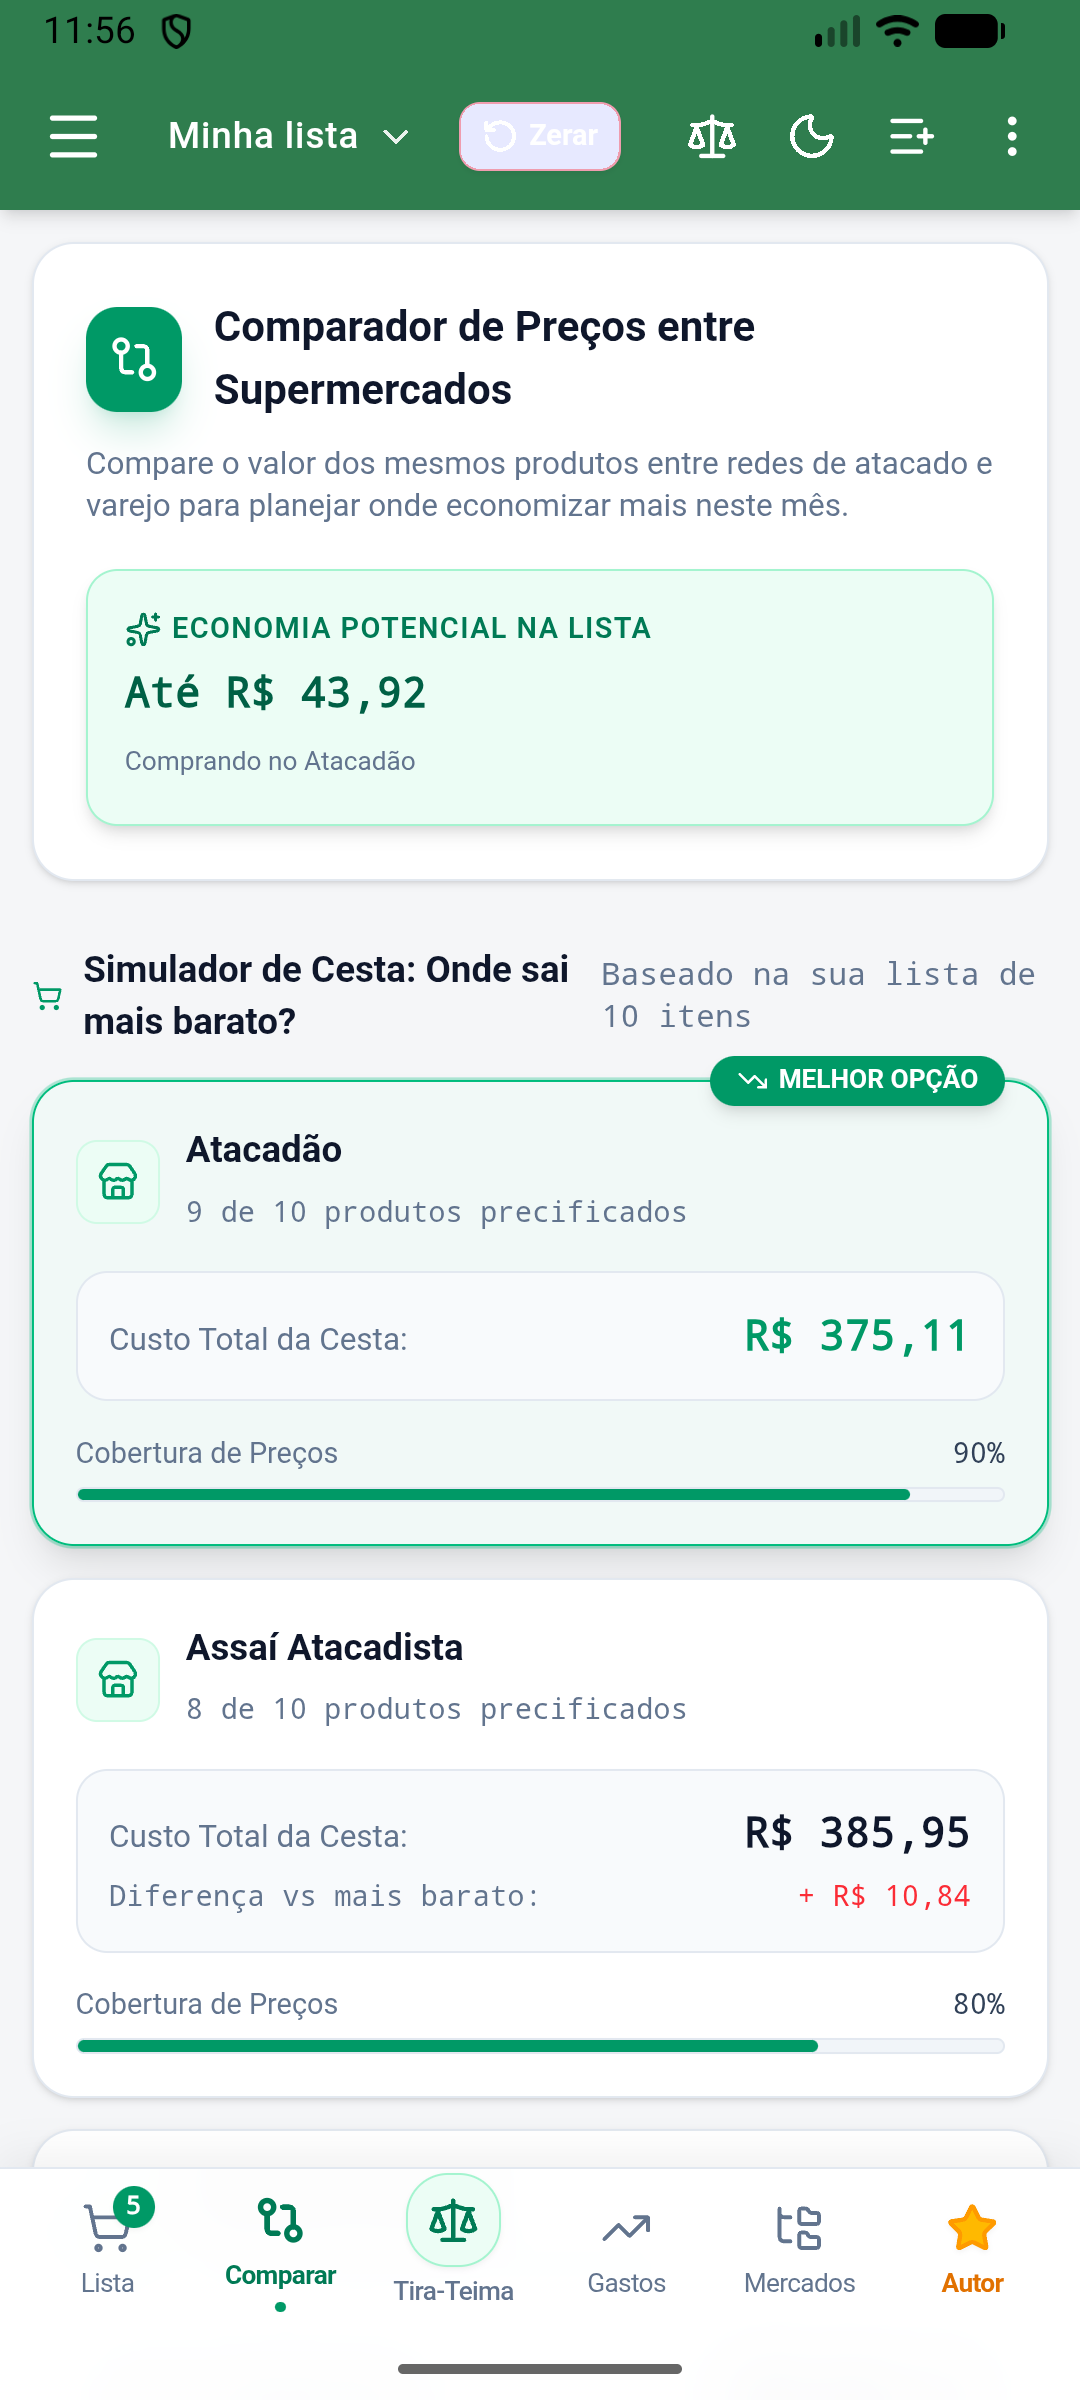
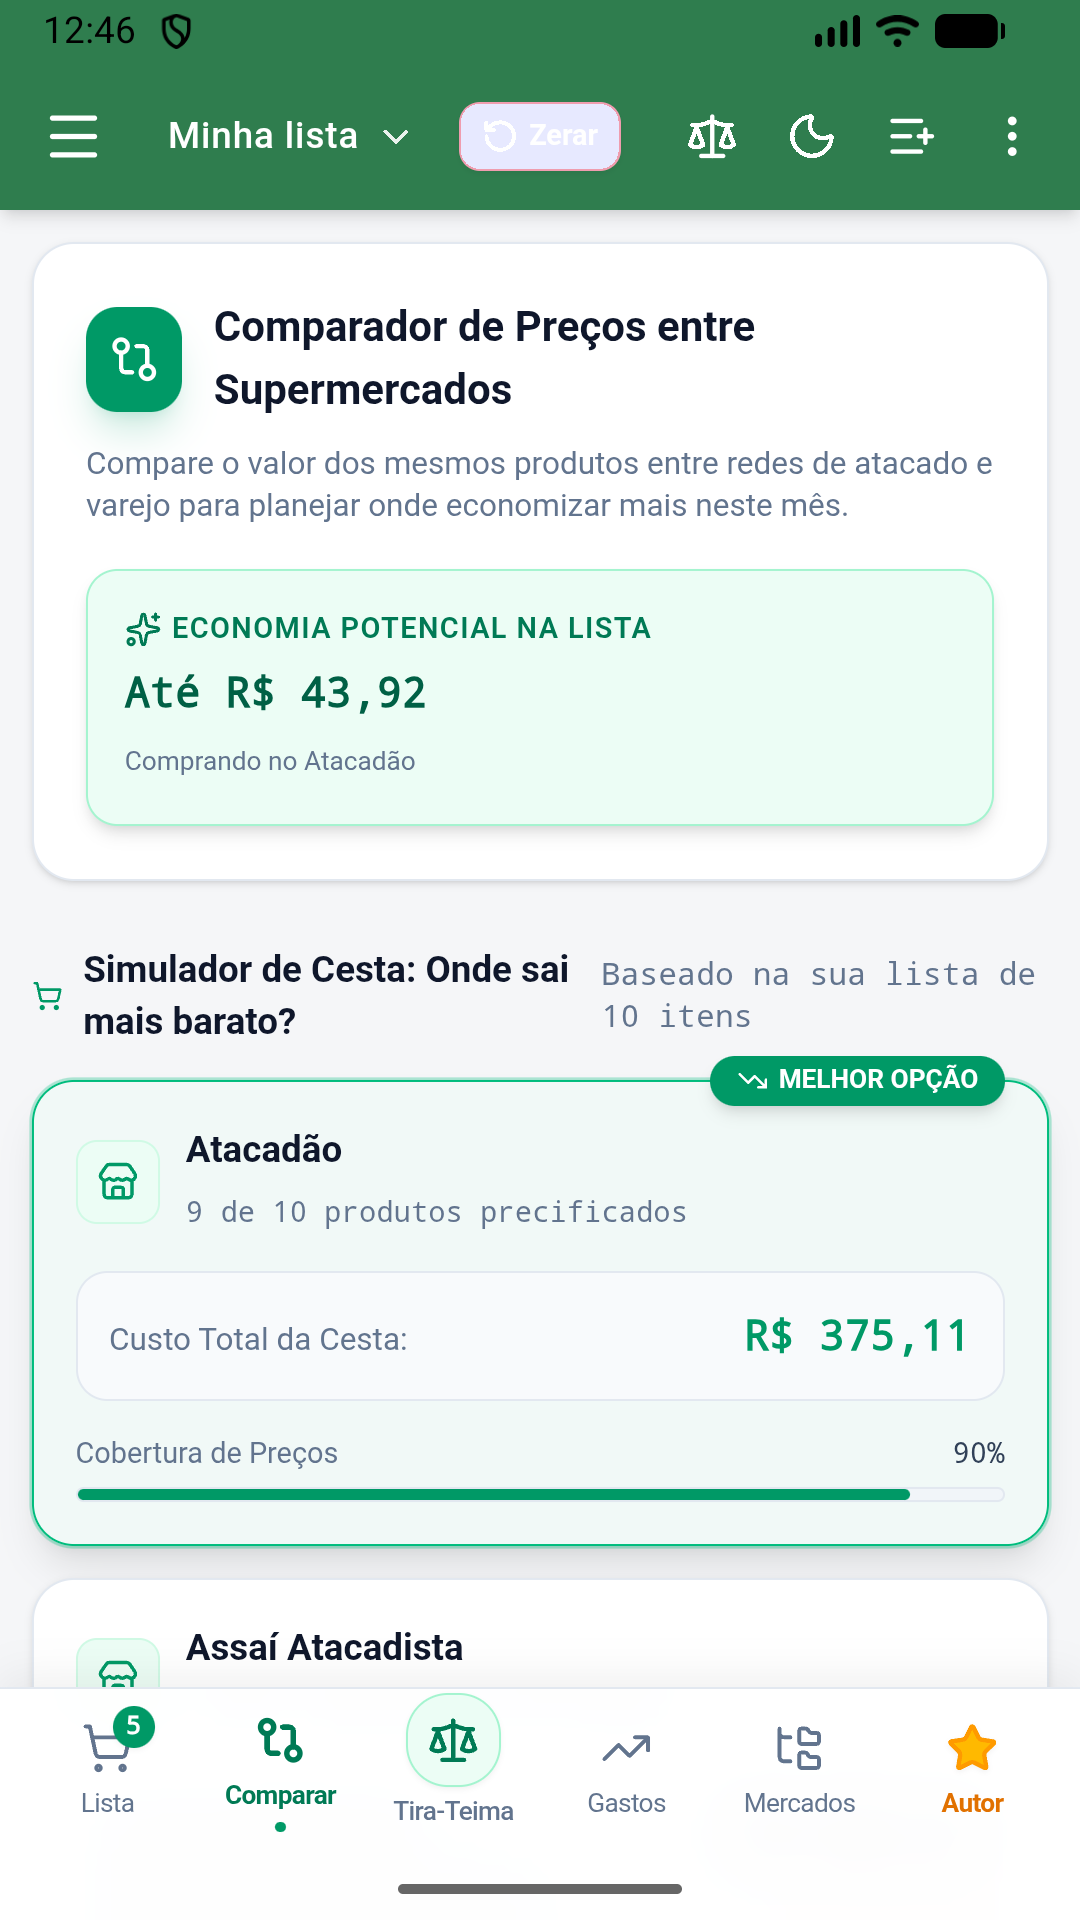
Corrige layout no Android e atualiza capturas de tela da loja
- Barras de totais/botão + respeitam a área de gestos do Android (inset inferior)
- Gráfico de rosca em Gastos não fica mais cortado no celular
- Novas capturas 1080x1920 (9:16) para a Play Store

diff --git a/src/components/ShoppingList/ShoppingListView.tsx b/src/components/ShoppingList/ShoppingListView.tsx
@@ -432,7 +432,7 @@ export const ShoppingListView: React.FC = () => {
       <button
         id="fab-add-item"
         onClick={() => setIsCatalogModalOpen(true)}
-        className="fixed right-5 bottom-32 z-30 w-14 h-14 rounded-full bg-[#2F7D4E] hover:bg-emerald-700 active:scale-95 text-white shadow-2xl flex items-center justify-center transition-all cursor-pointer hover:shadow-emerald-600/40"
+        className="fixed right-5 bottom-[calc(8rem+env(safe-area-inset-bottom,0px))] z-30 w-14 h-14 rounded-full bg-[#2F7D4E] hover:bg-emerald-700 active:scale-95 text-white shadow-2xl flex items-center justify-center transition-all cursor-pointer hover:shadow-emerald-600/40"
         title="Adicionar produtos pelo catálogo"
         aria-label="Adicionar produtos"
       >
@@ -440,7 +440,7 @@ export const ShoppingListView: React.FC = () => {
       </button>
 
       {/* Bottom Sticky Status Bar - Positioned above BottomNavBar */}
-      <div className="fixed bottom-16 left-0 right-0 z-30 bg-[#B8DAC0] dark:bg-[#1A3F2C] border-t border-[#9FC8A8] dark:border-emerald-800 select-none shadow-lg">
+      <div className="fixed bottom-[calc(4rem+env(safe-area-inset-bottom,0px))] left-0 right-0 z-30 bg-[#B8DAC0] dark:bg-[#1A3F2C] border-t border-[#9FC8A8] dark:border-emerald-800 select-none shadow-lg">
         <div className="max-w-2xl mx-auto px-4 py-2.5 flex items-center justify-between text-slate-800 dark:text-emerald-50">
           
           {/* Left: Total */}

diff --git a/src/components/Analytics/FinancialDashboardView.tsx b/src/components/Analytics/FinancialDashboardView.tsx
@@ -374,8 +374,8 @@ export const FinancialDashboardView: React.FC = () => {
               </p>
             </div>
           ) : (
-            <div className="grid grid-cols-1 sm:grid-cols-2 items-center gap-4 h-64">
-              <div className="h-full w-full">
+            <div className="grid grid-cols-1 sm:grid-cols-2 items-center gap-4 sm:h-64">
+              <div className="h-56 sm:h-full w-full">
                 <ResponsiveContainer width="100%" height="100%">
                   <PieChart>
                     <Pie

diff --git a/src/App.tsx b/src/App.tsx
@@ -50,7 +50,7 @@ const MainContent: React.FC = () => {
       />
 
       {/* Main Container */}
-      <main className="flex-1 w-full max-w-5xl mx-auto pb-20">
+      <main className="flex-1 w-full max-w-5xl mx-auto pb-[calc(5rem+env(safe-area-inset-bottom,0px))]">
         {activeTab === 'list' && <ShoppingListView />}
         {activeTab === 'comparator' && (
           <div className="p-3 sm:p-6">

diff --git a/PLAY_STORE.md b/PLAY_STORE.md
@@ -55,7 +55,7 @@ A chave de upload foi criada em `android/keystore/mercadofacil-upload.jks`, com 
 8. **Ficha da loja** — materiais prontos em `play-store/`:
    - Ícone 512×512: `play-store/icon-512.png`
    - Imagem de destaque 1024×500: `play-store/feature-graphic-1024x500.png`
-   - Capturas de tela de celular (mínimo 2): `play-store/screenshots/` (1080×2400)
+   - Capturas de tela de celular (mínimo 2): `play-store/screenshots/` (1080×1920, 9:16)
 9. **Testes obrigatórios para conta pessoal nova**: contas de desenvolvedor pessoais criadas depois de
    nov/2023 precisam rodar um **teste fechado com pelo menos 12 testadores por 14 dias seguidos**
    antes de pedir acesso à produção. Confira as regras atuais na Play Console, pois mudam.
